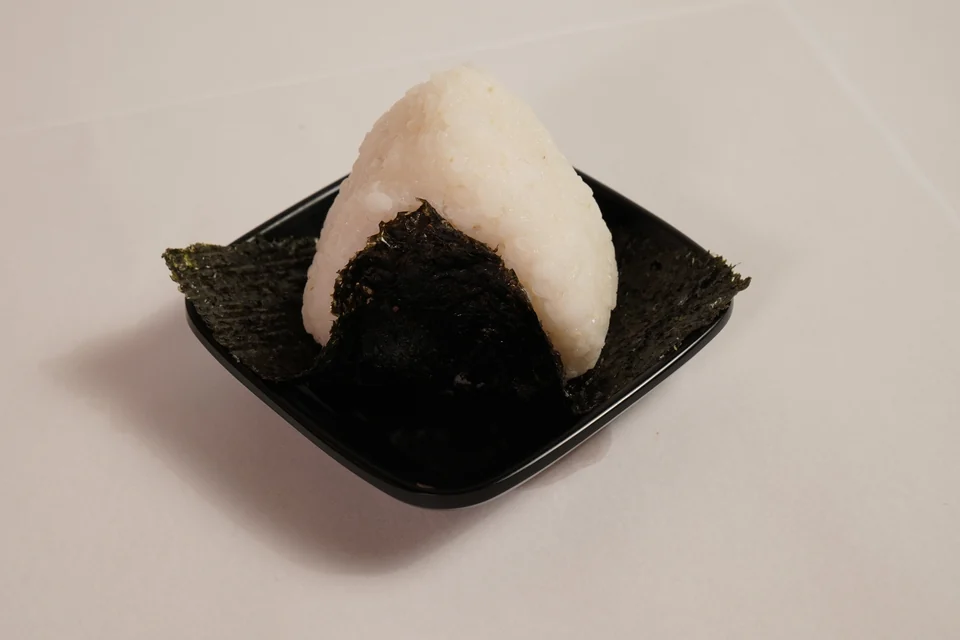
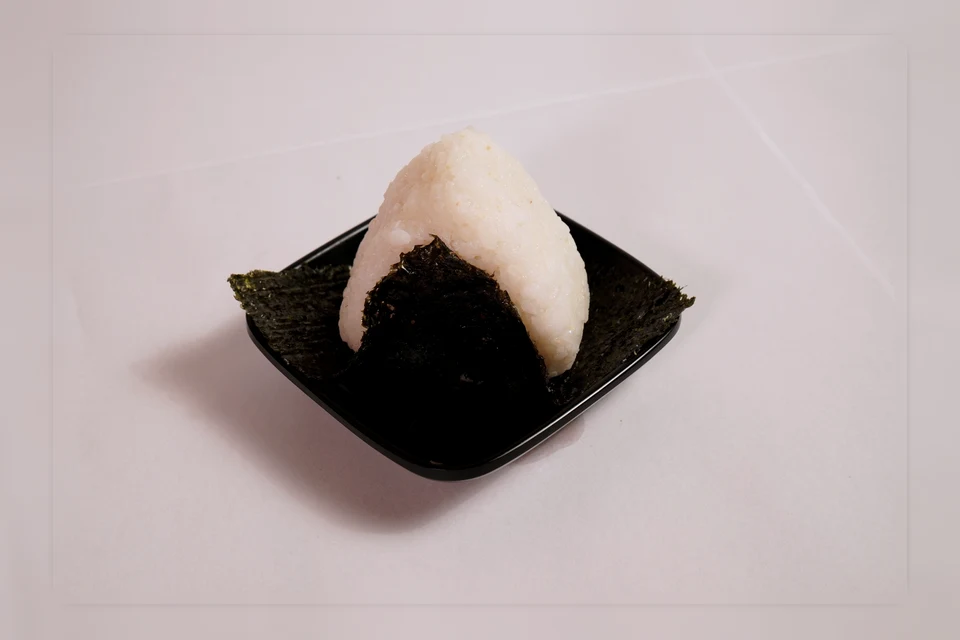
fix: reframe all dish photos with proper margins and widen menu grid cards

diff --git a/index.html b/index.html
@@ -116,7 +116,7 @@
         <!-- Coluna Visual: Polaroids Inclinadas + Bowl Recortado Flutuante -->
         <div class="hero-visual-collage">
           <div class="polaroid-card polaroid-left">
-            <img src="/assets/pratos/misso-lamen.webp?v=5" alt="Missô Lámen Domburiya" width="380" height="260" />
+            <img src="/assets/pratos/misso-lamen.webp?v=6" alt="Missô Lámen Domburiya" width="380" height="260" />
             <span class="polaroid-caption">Missô Lámen · R$ 54</span>
           </div>
 
@@ -277,7 +277,7 @@
         <div class="combinado-grid">
           <article class="dish-tile combinado-card">
             <div class="dish-photo">
-              <img src="/assets/pratos/combinado-karague.webp" alt="Yakimeshi + Yakissoba + Karaguê" width="480" height="320" loading="lazy" />
+              <img src="/assets/pratos/combinado-karague.webp?v=6" alt="Yakimeshi + Yakissoba + Karaguê" width="480" height="320" loading="lazy" />
               <span class="dish-badge">Família</span>
             </div>
             <div class="dish-meta">
@@ -290,7 +290,7 @@
 
           <article class="dish-tile combinado-card">
             <div class="dish-photo">
-              <img src="/assets/pratos/combinado-lombo.webp" alt="Yakimeshi + Yakissoba + Lombo Oriental" width="480" height="320" loading="lazy" />
+              <img src="/assets/pratos/combinado-lombo.webp?v=6" alt="Yakimeshi + Yakissoba + Lombo Oriental" width="480" height="320" loading="lazy" />
               <span class="dish-badge">Família</span>
             </div>
             <div class="dish-meta">
@@ -303,7 +303,7 @@
 
           <article class="dish-tile combinado-card">
             <div class="dish-photo">
-              <img src="/assets/pratos/combinado-coreano.webp" alt="Yakimeshi + Yakissoba + Frango Coreano" width="480" height="320" loading="lazy" />
+              <img src="/assets/pratos/combinado-coreano.webp?v=6" alt="Yakimeshi + Yakissoba + Frango Coreano" width="480" height="320" loading="lazy" />
               <span class="dish-badge">Família</span>
             </div>
             <div class="dish-meta">
@@ -340,7 +340,7 @@
             <button type="button" class="cat-tile is-active" role="tab" aria-selected="true" data-filter="lamen">
               <span class="cat-tile-title">LÁMEN</span>
               <span class="cat-tile-sub">09 caldos · R$ 49,00 a R$ 54,00</span>
-              <img src="/assets/pratos/misso-lamen.webp?v=3" alt="Lámen" width="220" height="150" loading="lazy" />
+              <img src="/assets/pratos/misso-lamen.webp?v=6" alt="Lámen" width="220" height="150" loading="lazy" />
             </button>
 
             <button type="button" class="cat-tile" role="tab" aria-selected="false" data-filter="domburi">
@@ -352,13 +352,13 @@
             <button type="button" class="cat-tile" role="tab" aria-selected="false" data-filter="obento">
               <span class="cat-tile-title">OBENTÔ</span>
               <span class="cat-tile-sub">Executivo · A partir de R$ 42,00</span>
-              <img src="/assets/pratos/obento-executivo.webp?v=3" alt="Obentô" width="220" height="150" loading="lazy" />
+              <img src="/assets/pratos/obento-executivo.webp?v=6" alt="Obentô" width="220" height="150" loading="lazy" />
             </button>
 
             <button type="button" class="cat-tile" role="tab" aria-selected="false" data-filter="combinado">
               <span class="cat-tile-title">COMBINADO FAMÍLIA</span>
               <span class="cat-tile-sub">Yakimeshi + Yakissoba + Proteína</span>
-              <img src="/assets/pratos/combinado-karague.webp" alt="Combinado Família" width="220" height="150" loading="lazy" />
+              <img src="/assets/pratos/combinado-karague.webp?v=6" alt="Combinado Família" width="220" height="150" loading="lazy" />
             </button>
 
             <button type="button" class="cat-tile cat-tile-wide" role="tab" aria-selected="false" data-filter="entradas">
@@ -366,7 +366,7 @@
                 <span class="cat-tile-title">PORÇÕES &amp; ENTRADAS</span>
                 <span class="cat-tile-sub">Karaguê, Guioza, Takoyaki, Tonkatsu, Hot Roll e Onigiri</span>
               </div>
-              <img src="/assets/pratos/guioza.webp?v=3" alt="Porções e Entradas" width="220" height="150" loading="lazy" />
+              <img src="/assets/pratos/guioza.webp?v=6" alt="Porções e Entradas" width="220" height="150" loading="lazy" />
             </button>
           </div>
         </div>
@@ -383,7 +383,7 @@
           <!-- ==================== LÁMEN ==================== -->
           <article class="dish-tile" data-category="lamen">
             <div class="dish-photo">
-              <img src="/assets/pratos/misso-lamen.webp?v=3" alt="Missô Lámen" width="480" height="320" loading="lazy" />
+              <img src="/assets/pratos/misso-lamen.webp?v=6" alt="Missô Lámen" width="480" height="320" loading="lazy" />
               <span class="dish-badge">Mais Pedido</span>
             </div>
             <div class="dish-meta">
@@ -397,7 +397,7 @@
 
           <article class="dish-tile" data-category="lamen">
             <div class="dish-photo">
-              <img src="/assets/pratos/shoyu-lamen.webp?v=3" alt="Shoyu Lámen" width="480" height="320" loading="lazy" />
+              <img src="/assets/pratos/shoyu-lamen.webp?v=6" alt="Shoyu Lámen" width="480" height="320" loading="lazy" />
             </div>
             <div class="dish-meta">
               <div class="dish-row">
@@ -410,7 +410,7 @@
 
           <article class="dish-tile" data-category="lamen">
             <div class="dish-photo">
-              <img src="/assets/pratos/shio-lamen.webp?v=3" alt="Shio Lámen" width="480" height="320" loading="lazy" />
+              <img src="/assets/pratos/shio-lamen.webp?v=6" alt="Shio Lámen" width="480" height="320" loading="lazy" />
             </div>
             <div class="dish-meta">
               <div class="dish-row">
@@ -423,7 +423,7 @@
 
           <article class="dish-tile" data-category="lamen">
             <div class="dish-photo">
-              <img src="/assets/pratos/kara-misso-lamen.webp?v=3" alt="Kara Missô Lámen" width="480" height="320" loading="lazy" />
+              <img src="/assets/pratos/kara-misso-lamen.webp?v=6" alt="Kara Missô Lámen" width="480" height="320" loading="lazy" />
               <span class="dish-badge dish-badge-spicy">Picante</span>
             </div>
             <div class="dish-meta">
@@ -437,7 +437,7 @@
 
           <article class="dish-tile" data-category="lamen">
             <div class="dish-photo">
-              <img src="/assets/pratos/tantan-lamen.webp?v=3" alt="Tantan Lámen" width="480" height="320" loading="lazy" />
+              <img src="/assets/pratos/tantan-lamen.webp?v=6" alt="Tantan Lámen" width="480" height="320" loading="lazy" />
               <span class="dish-badge dish-badge-spicy">Picante</span>
             </div>
             <div class="dish-meta">
@@ -576,7 +576,7 @@
 
           <article class="dish-tile" data-category="domburi" hidden>
             <div class="dish-photo">
-              <img src="/assets/pratos/tonkatsudon.webp?v=3" alt="Tonkatsudon" width="480" height="320" loading="lazy" />
+              <img src="/assets/pratos/tonkatsudon.webp?v=6" alt="Tonkatsudon" width="480" height="320" loading="lazy" />
             </div>
             <div class="dish-meta">
               <div class="dish-row">
@@ -590,7 +590,7 @@
           <!-- ==================== OBENTÔ ==================== -->
           <article class="dish-tile" data-category="obento" hidden>
             <div class="dish-photo">
-              <img src="/assets/pratos/obento-karague.webp?v=3" alt="Obentô Karaguê" width="480" height="320" loading="lazy" />
+              <img src="/assets/pratos/obento-karague.webp?v=6" alt="Obentô Karaguê" width="480" height="320" loading="lazy" />
               <span class="dish-badge">Executivo</span>
             </div>
             <div class="dish-meta">
@@ -604,7 +604,7 @@
 
           <article class="dish-tile" data-category="obento" hidden>
             <div class="dish-photo">
-              <img src="/assets/pratos/obento-executivo.webp?v=3" alt="Obentô Executivo" width="480" height="320" loading="lazy" />
+              <img src="/assets/pratos/obento-executivo.webp?v=6" alt="Obentô Executivo" width="480" height="320" loading="lazy" />
               <span class="dish-badge">Mais Completo</span>
             </div>
             <div class="dish-meta">
@@ -619,7 +619,7 @@
           <!-- ==================== COMBINADO FAMÍLIA ==================== -->
           <article class="dish-tile" data-category="combinado" hidden>
             <div class="dish-photo">
-              <img src="/assets/pratos/combinado-karague.webp" alt="Yakimeshi + Yakissoba + Karaguê" width="480" height="320" loading="lazy" />
+              <img src="/assets/pratos/combinado-karague.webp?v=6" alt="Yakimeshi + Yakissoba + Karaguê" width="480" height="320" loading="lazy" />
               <span class="dish-badge">Família</span>
             </div>
             <div class="dish-meta">
@@ -632,7 +632,7 @@
 
           <article class="dish-tile" data-category="combinado" hidden>
             <div class="dish-photo">
-              <img src="/assets/pratos/combinado-lombo.webp" alt="Yakimeshi + Yakissoba + Lombo Oriental" width="480" height="320" loading="lazy" />
+              <img src="/assets/pratos/combinado-lombo.webp?v=6" alt="Yakimeshi + Yakissoba + Lombo Oriental" width="480" height="320" loading="lazy" />
               <span class="dish-badge">Família</span>
             </div>
             <div class="dish-meta">
@@ -645,7 +645,7 @@
 
           <article class="dish-tile" data-category="combinado" hidden>
             <div class="dish-photo">
-              <img src="/assets/pratos/combinado-coreano.webp" alt="Yakimeshi + Yakissoba + Frango Coreano" width="480" height="320" loading="lazy" />
+              <img src="/assets/pratos/combinado-coreano.webp?v=6" alt="Yakimeshi + Yakissoba + Frango Coreano" width="480" height="320" loading="lazy" />
               <span class="dish-badge">Família</span>
             </div>
             <div class="dish-meta">
@@ -672,7 +672,7 @@
 
           <article class="dish-tile" data-category="entradas" hidden>
             <div class="dish-photo">
-              <img src="/assets/pratos/tonkatsu-porcao.webp?v=3" alt="Tonkatsu" width="480" height="320" loading="lazy" />
+              <img src="/assets/pratos/tonkatsu-porcao.webp?v=6" alt="Tonkatsu" width="480" height="320" loading="lazy" />
             </div>
             <div class="dish-meta">
               <div class="dish-row">
@@ -685,7 +685,7 @@
 
           <article class="dish-tile" data-category="entradas" hidden>
             <div class="dish-photo">
-              <img src="/assets/pratos/guioza.webp?v=3" alt="Guioza" width="480" height="320" loading="lazy" />
+              <img src="/assets/pratos/guioza.webp?v=6" alt="Guioza" width="480" height="320" loading="lazy" />
             </div>
             <div class="dish-meta">
               <div class="dish-row">
@@ -725,7 +725,7 @@
 
           <article class="dish-tile" data-category="entradas" hidden>
             <div class="dish-photo">
-              <img src="/assets/pratos/onigiri.webp?v=3" alt="Onigiri (unid)" width="480" height="320" loading="lazy" />
+              <img src="/assets/pratos/onigiri.webp?v=6" alt="Onigiri (unid)" width="480" height="320" loading="lazy" />
             </div>
             <div class="dish-meta">
               <div class="dish-row">

diff --git a/style.css b/style.css
@@ -701,7 +701,7 @@ button {
   background: var(--cream-card);
   border: 2px solid transparent;
   border-radius: var(--radius-md);
-  padding: 0.65rem 0.65rem 0.65rem;
+  padding: 0.85rem 0.85rem;
   display: flex;
   flex-direction: column;
   align-items: center;
@@ -790,11 +790,11 @@ button {
   text-underline-offset: 3px;
 }
 
-/* Cards Visuais Compactos dos 24 Pratos (Sem Textão) */
+/* Cards Visuais dos Pratos (Com Espaçamento e Margens Confortáveis) */
 .dish-showcase-grid {
   display: grid;
-  grid-template-columns: repeat(auto-fill, minmax(215px, 1fr));
-  gap: 0.9rem;
+  grid-template-columns: repeat(auto-fill, minmax(275px, 1fr));
+  gap: 1.25rem;
 }
 
 .dish-tile {
@@ -802,6 +802,8 @@ button {
   border: 1px solid var(--cream-border);
   border-radius: var(--radius-sm);
   overflow: hidden;
+  display: flex;
+  flex-direction: column;
   transition: transform 0.2s ease, box-shadow 0.2s ease;
 }
 .dish-tile:hover {
@@ -816,7 +818,7 @@ button {
   position: relative;
   aspect-ratio: 3 / 2;
   overflow: hidden;
-  background: #1a1614;
+  background: #e6dfd5;
 }
 
 .dish-photo img {
@@ -826,20 +828,20 @@ button {
   transition: transform 0.3s ease;
 }
 .dish-tile:hover .dish-photo img {
-  transform: scale(1.05);
+  transform: scale(1.03);
 }
 
 .dish-badge {
   position: absolute;
-  top: 8px;
-  left: 8px;
+  top: 10px;
+  left: 10px;
   background: var(--dark);
   color: var(--gold);
   font-family: var(--font-mono);
-  font-size: 0.65rem;
+  font-size: 0.66rem;
   font-weight: 700;
   text-transform: uppercase;
-  padding: 0.2rem 0.45rem;
+  padding: 0.24rem 0.55rem;
   border-radius: var(--radius-xs);
 }
 .dish-badge-spicy {
@@ -848,41 +850,51 @@ button {
 }
 
 .dish-meta {
-  padding: 0.7rem 0.8rem 0.75rem;
+  padding: 1rem 1.15rem 1.15rem;
+  display: flex;
+  flex-direction: column;
+  gap: 0.35rem;
+  flex: 1;
 }
 
 .dish-row {
   display: flex;
-  align-items: baseline;
+  flex-wrap: wrap;
+  align-items: flex-start;
   justify-content: space-between;
-  gap: 0.4rem;
-  margin-bottom: 0.2rem;
+  gap: 0.25rem 0.65rem;
+  margin-bottom: 0.15rem;
 }
 
 .dish-row h3 {
-  font-size: 0.94rem;
+  font-size: 1rem;
   font-weight: 800;
   color: var(--ink);
+  line-height: 1.25;
 }
 
 .dish-price {
   font-family: var(--font-mono);
-  font-size: 0.86rem;
+  font-size: 0.84rem;
   font-weight: 700;
   color: var(--red);
   white-space: nowrap;
+  line-height: 1.3;
+  text-align: right;
+  margin-left: auto;
 }
 .dish-price small {
   display: block;
-  font-size: 0.66rem;
+  font-size: 0.72rem;
   color: var(--ink-muted);
   text-align: right;
+  margin-top: 0.1rem;
 }
 
 .dish-meta p {
-  font-size: 0.75rem;
+  font-size: 0.8rem;
   color: var(--ink-muted);
-  line-height: 1.45;
+  line-height: 1.5;
 }
 
 /* ==========================================================================

diff --git a/main.js b/main.js
@@ -168,12 +168,12 @@ const REVIEWS = [
     author: 'Lucas D. · Alameda Jardino'
   },
   {
-    img: '/assets/pratos/obento-karague.webp?v=3',
+    img: '/assets/pratos/obento-karague.webp?v=6',
     quote: '“Os pratos estavam muito bem preparados e o tempero é bem suave. O atendimento também foi ótimo!”',
     author: 'Natália · Londrina/PR'
   },
   {
-    img: '/assets/pratos/misso-lamen.webp?v=3',
+    img: '/assets/pratos/misso-lamen.webp?v=6',
     quote: '“Foi muito bom desde o atendimento via WhatsApp até pessoalmente. Tudo que experimentamos estava muito saboroso!”',
     author: 'Laisa Pizzo · Londrina/PR'
   }
